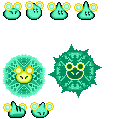
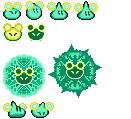
이민하 : 스파키 애니메이션 수정

diff --git a/API/ContentsProject/Sparky.cpp b/API/ContentsProject/Sparky.cpp
@@ -25,14 +25,14 @@ ASparky::ASparky()
 		UImageManager::GetInst().CuttingSprite("Sparky_Left.png", { 128, 128 });
 		UImageManager::GetInst().CuttingSprite("Sparky_Right.png", { 128, 128 });
 
-		SpriteRenderer->CreateAnimation("Walk_Left", "Sparky_Left.png", 0, 2, 0.2f);
-		SpriteRenderer->CreateAnimation("Walk_Right", "Sparky_Right.png", 0, 2, 0.2f);
-		SpriteRenderer->CreateAnimation("Attack_Left", "Sparky_Left.png", {4,5,4,5,4,5,4,5,4,5,6,7}, 0.2f, true);
-		SpriteRenderer->CreateAnimation("Attack_Right", "Sparky_Right.png", { 4,5,4,5,4,5,4,5,4,5,6,7 }, 0.2f, true);
-		SpriteRenderer->CreateAnimation("Inhaled_Left", "Sparky_Left.png", 7, 7, 0.2f, true);
-		SpriteRenderer->CreateAnimation("Inhaled_Right", "Sparky_Right.png", 7, 7, 0.2f, true);
-		SpriteRenderer->CreateAnimation("Damaged_Left", "Sparky_Right.png", 7, 7, 0.2f, true);
-		SpriteRenderer->CreateAnimation("Damaged_Right", "Sparky_Right.png", 7, 7, 0.2f, true);
+		SpriteRenderer->CreateAnimation("Walk_Left", "Sparky_Left.png", { 0, 2,4,5 }, 0.2f);
+		SpriteRenderer->CreateAnimation("Walk_Right", "Sparky_Right.png", { 0, 2,4,5 }, 0.2f);
+		SpriteRenderer->CreateAnimation("Attack_Left", "Sparky_Left.png", {1,1,1,3,6,7,6,7,6,7,6,7,6,7,8}, 0.2f, true);
+		SpriteRenderer->CreateAnimation("Attack_Right", "Sparky_Right.png", { 1,1,1,3,6,7,6,7,6,7,6,7,6,7,8 }, 0.2f, true);
+		SpriteRenderer->CreateAnimation("Inhaled_Left", "Sparky_Left.png", 9, 9, 0.2f, true);
+		SpriteRenderer->CreateAnimation("Inhaled_Right", "Sparky_Right.png", 9, 9, 0.2f, true);
+		SpriteRenderer->CreateAnimation("Damaged_Left", "Sparky_Right.png", 9, 9, 0.2f, true);
+		SpriteRenderer->CreateAnimation("Damaged_Right", "Sparky_Right.png", 9, 9, 0.2f, true);
 		SpriteRenderer->ChangeAnimation("Walk_Left");
 	}
 	{
@@ -76,7 +76,7 @@ void ASparky::Attack(float _DeltaTime)
 {
 	AMonster::Attack(_DeltaTime);
 
-	if (2 >= SpriteRenderer->GetFrameIndex())
+	if (7 >= SpriteRenderer->GetFrameIndex())
 	{
 		return;
 	}

diff --git a/API/ContentsProject/Player.cpp b/API/ContentsProject/Player.cpp
@@ -2350,7 +2350,7 @@ void APlayer::CollisionEnter(AActor* _ColActor)
 	{
 		FVector2D Vector = GetActorLocation() - _ColActor->GetActorLocation();
 		Vector.Normalize();
-
+		Vector.Y= 0.0f;
 		SetKnockBackForce(Vector*150.0f);
 
 		SetIsDamagedState(true);
@@ -2364,7 +2364,7 @@ void APlayer::ColKnockBackEnter(AActor* _ColActor)
 {
 	FVector2D Vector = GetActorLocation()- _ColActor->GetActorLocation();
 	Vector.Normalize();
-	//Vector.Y = 0.0f;
+	Vector.Y = 0.0f;
 
 	SetKnockBackForce(Vector*150.0f);
 	SetIsDamagedState(true);
